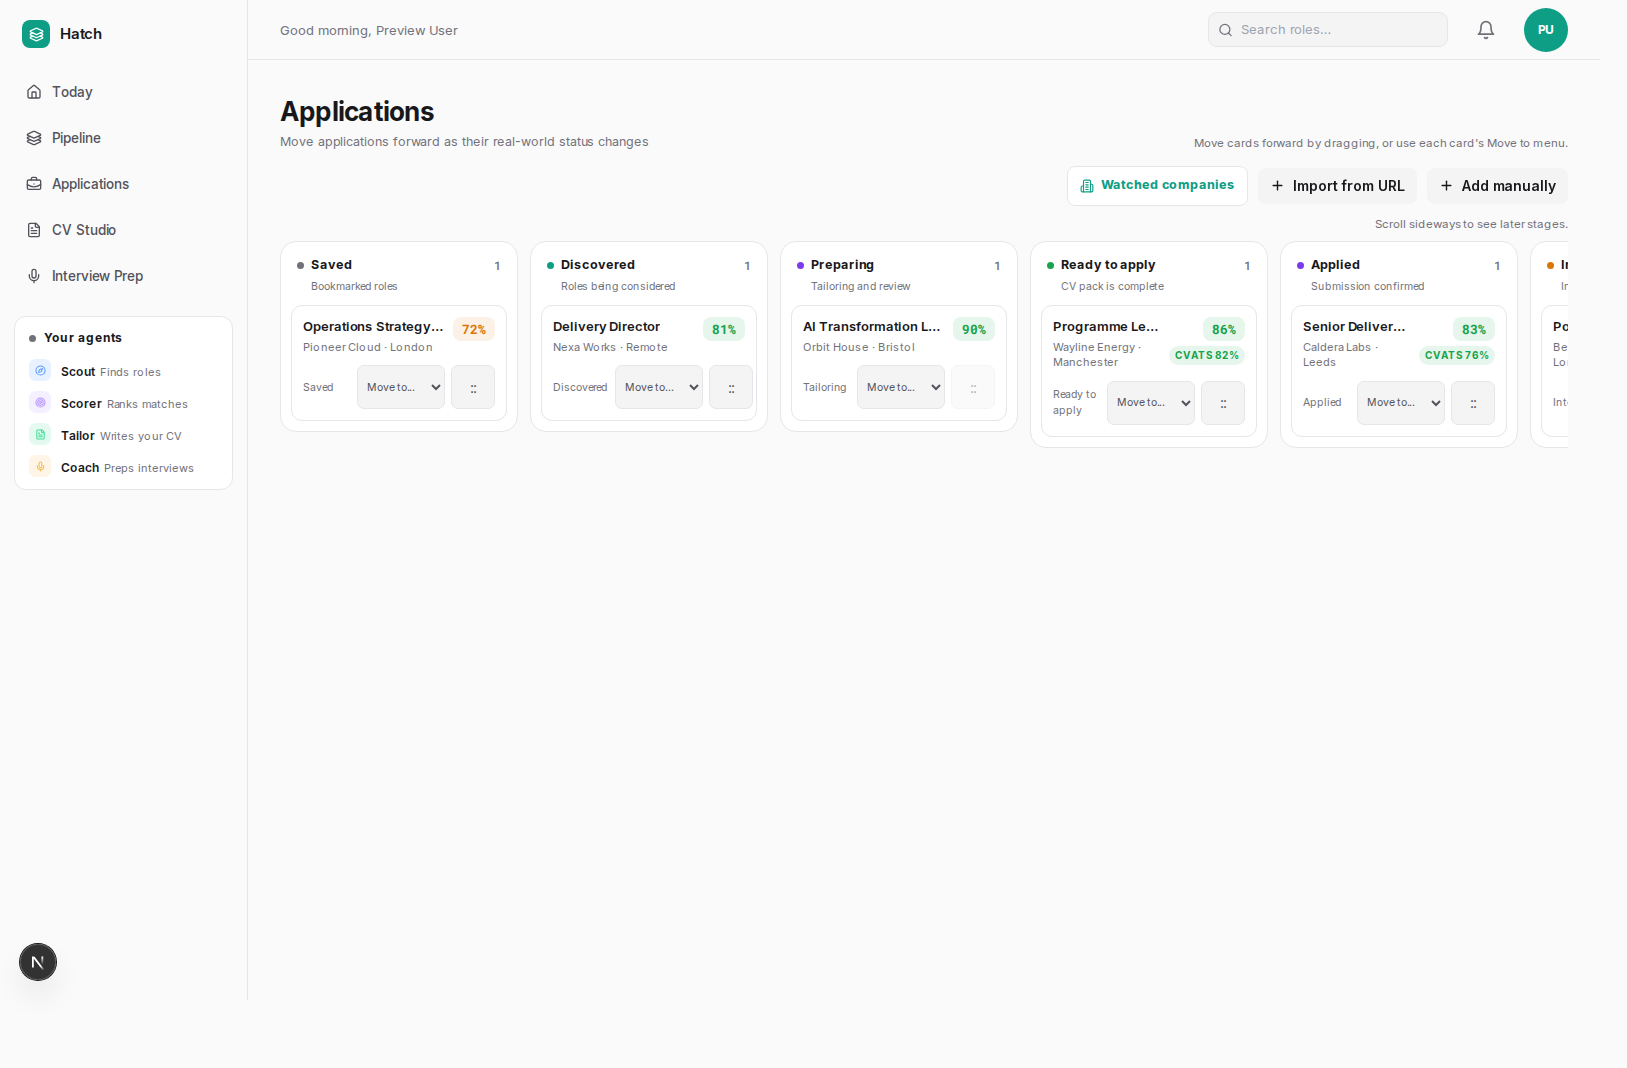
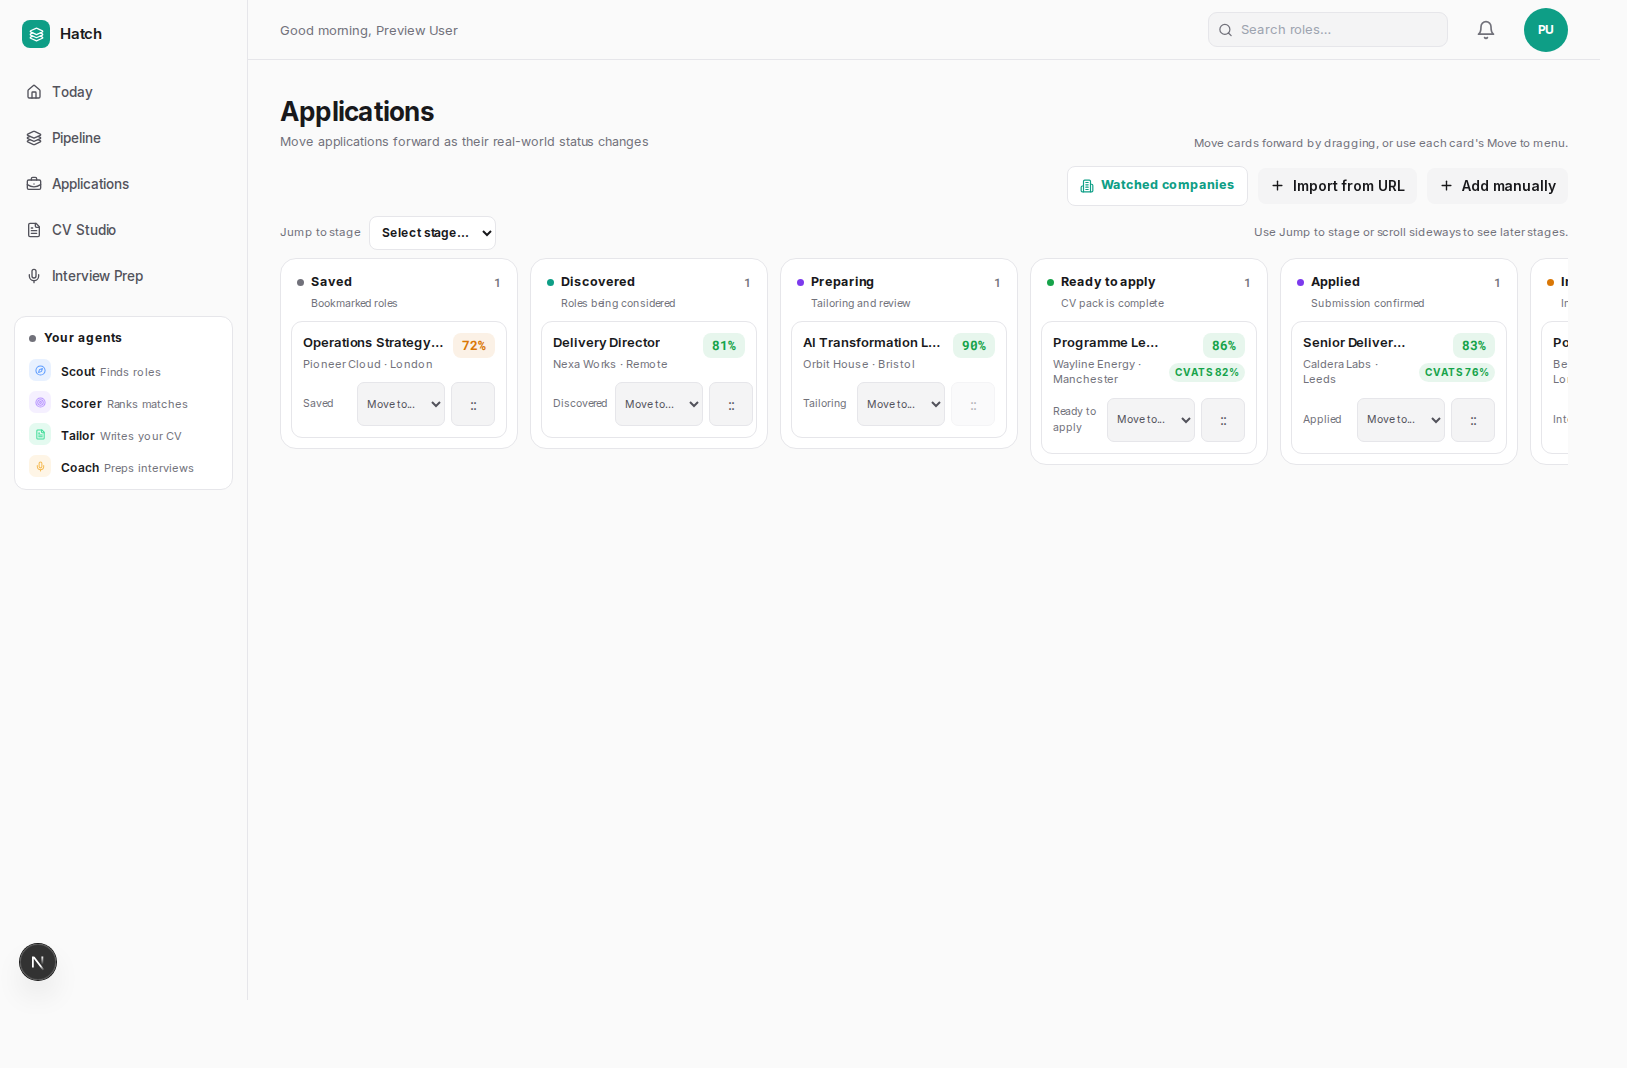
test: stabilize release verification

diff --git a/frontend/src/__tests__/codebase/shell-contract.test.ts b/frontend/src/__tests__/codebase/shell-contract.test.ts
@@ -46,7 +46,8 @@ describe('layout.tsx shell contract', () => {
   });
 
   it('owns one main landmark and exposes skip/onboarding main targets', () => {
-    expect(gate.match(/<main\b/g)).toHaveLength(3);
+    expect(gate.match(/<main\b/g)).toHaveLength(4);
+    expect(gate).toContain('isUnlockRoute');
     expect(gate).toContain('href="#main-content"');
     expect(gate).toContain('id="main-content"');
     expect(gate).toContain('isOnboardingRoute');

diff --git a/frontend/src/__tests__/components/TodayPageClientReviewFlow.test.tsx b/frontend/src/__tests__/components/TodayPageClientReviewFlow.test.tsx
@@ -69,5 +69,5 @@ describe("TodayPageClient review flow", () => {
     const nextGenerate = screen.getByRole("button", { name: "Generate CV pack" });
     expect(nextGenerate).toBeEnabled();
     expect(screen.queryByRole("button", { name: /Preparing CV pack/i })).not.toBeInTheDocument();
-  }, 15000);
+  }, 20000);
 });

diff --git a/frontend/src/__tests__/components/StreamPageClientBulkPrep.test.tsx b/frontend/src/__tests__/components/StreamPageClientBulkPrep.test.tsx
@@ -69,5 +69,5 @@ describe("StreamPageClient bulk prep", () => {
     });
     expect(await screen.findByText("Bulk prep started for 2 roles.")).toBeVisible();
     expect(screen.getByText("All").closest("button")).toBeEnabled();
-  });
+  }, 15000);
 });

diff --git a/frontend/vitest.config.ts b/frontend/vitest.config.ts
@@ -10,6 +10,7 @@ export default defineConfig({
     setupFiles: ['./src/__tests__/setup.ts'],
     include: ['src/**/*.test.{ts,tsx}'],
     css: false,
+    testTimeout: 20_000,
   },
   resolve: {
     alias: { '@': path.resolve(__dirname, './src') },

diff --git a/frontend/src/demo/readmeDemoData.ts b/frontend/src/demo/readmeDemoData.ts
@@ -90,7 +90,7 @@ function app(
     id,
     job_id: `job-${id}`,
     status,
-    priority: 0,
+    priority: "normal",
     applied_date: status === "applied" ? "2026-07-08T12:00:00Z" : null,
     recruiter_name: null,
     agency_name: null,
